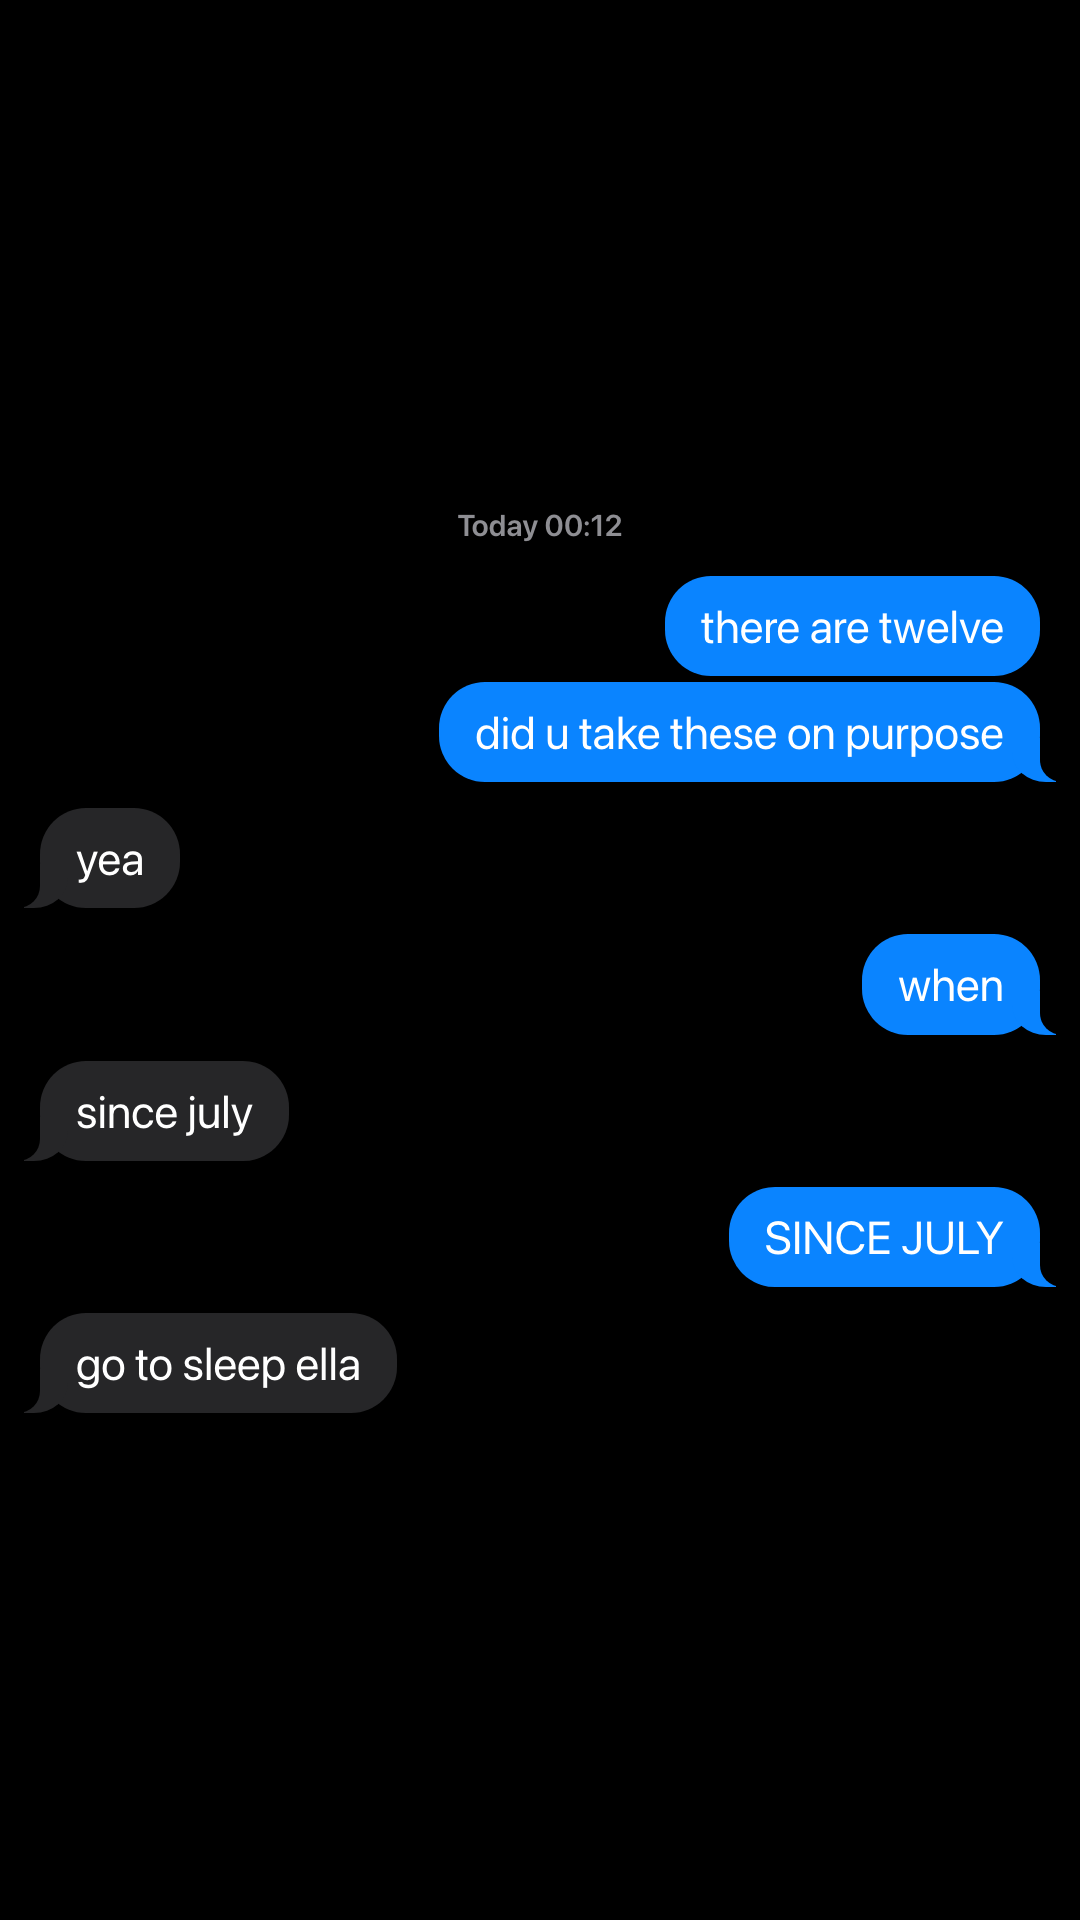
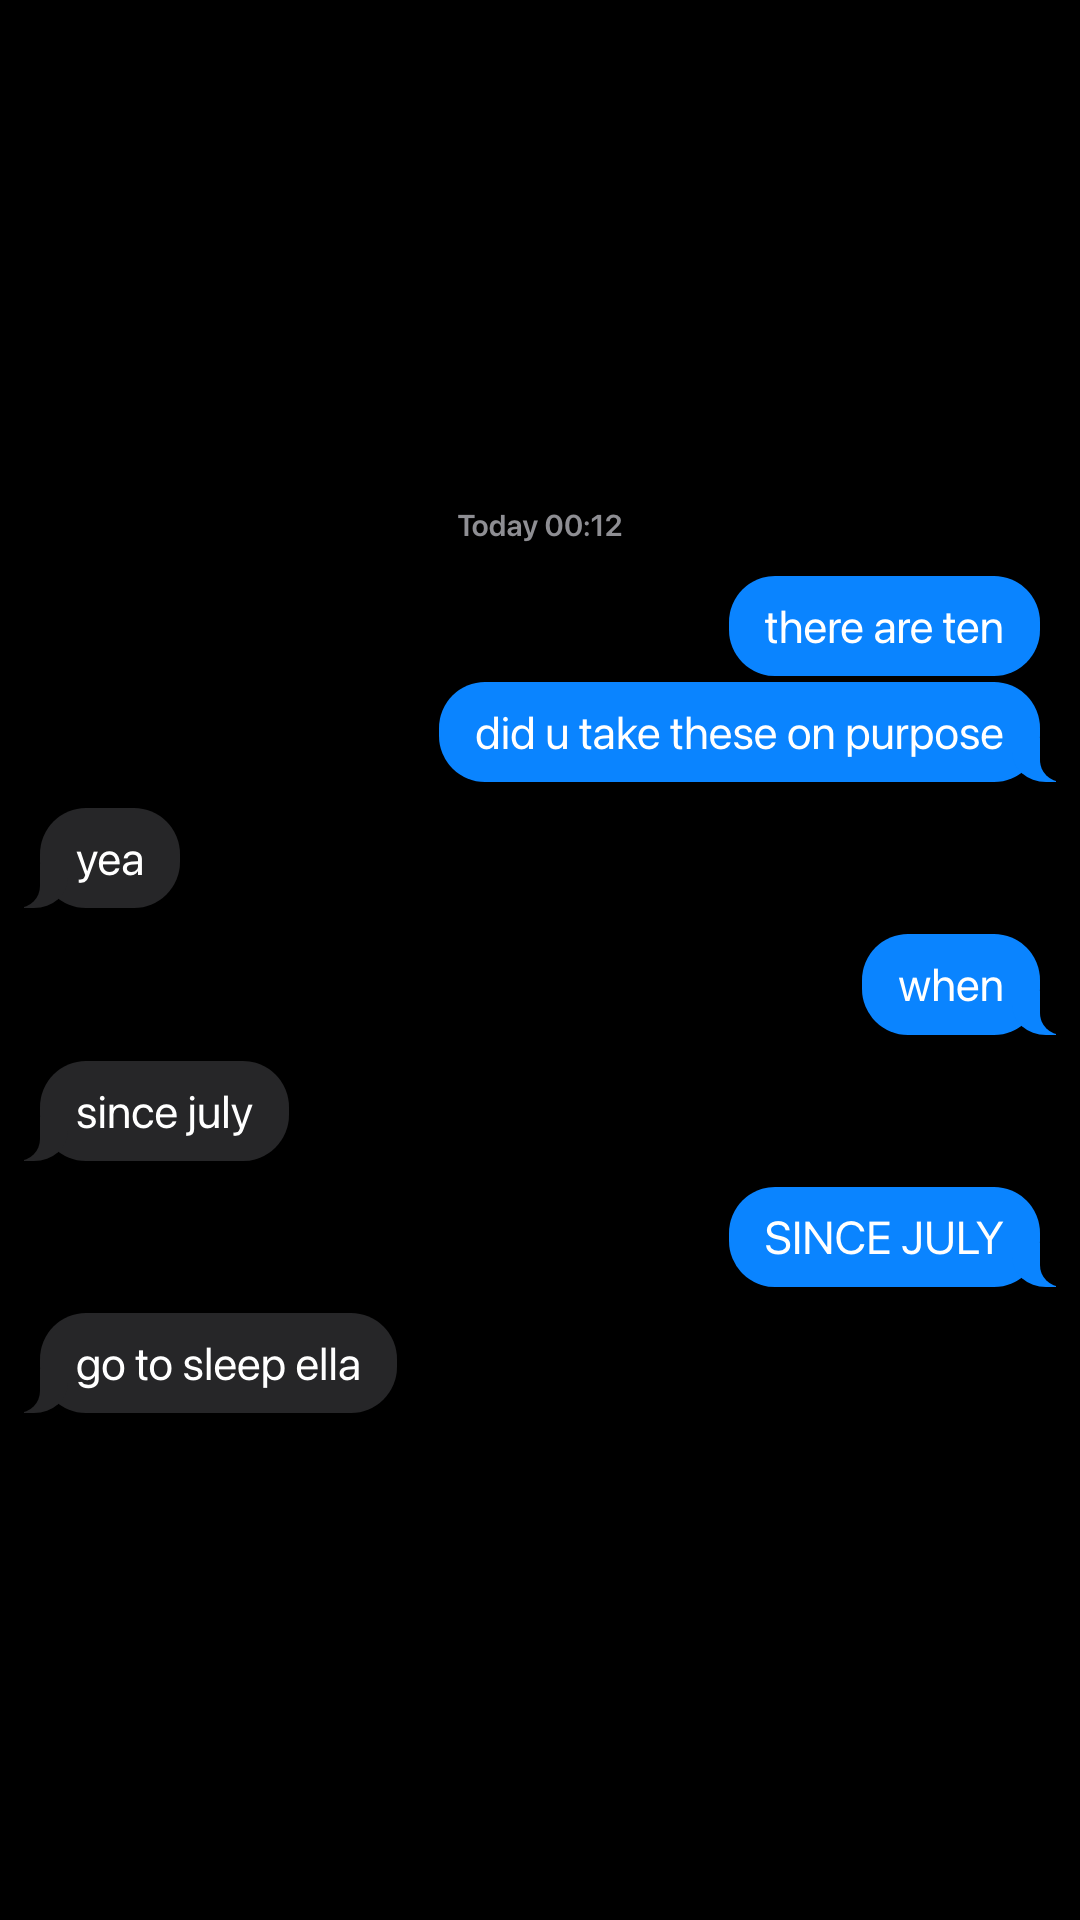
marketing: carousel 02 uses ten photos so the gift stays free
More than ten photos is the morePhotos premium extra, and the whole post
rests on the answer to "what is that" being "it's free".

Changed region(s): [[0.6111, 0.2812, 0.9167, 0.375]]

diff --git a/docs/marketing/tiktok-02/SCRIPT.md b/docs/marketing/tiktok-02/SCRIPT.md
@@ -30,13 +30,13 @@ Her: Ella. Him: never named, which is deliberate. People fill him in with someon
 | 2 | `slide-02.png` | "do u remember what u said in the car in july" · "u said nobody ever remembers the small stuff" · "i remembered the small stuff" | |
 | 3 | `slide-03.png` | "check ur other messages" · "why is there another one" · "just look" · "u will" | |
 | 4 | `slide-04.png` | the link · "what is this" · "headphones" · "im scared" · "ur gonna cry tho" | |
-| 5 | yours | the night sky, stars scattered, `For Ella` | `he made me a whole sky` |
+| 5 | yours | the night sky, ten stars scattered, `For Ella` | `he made me a whole sky` |
 | 6 | yours | one star opened, a photo inside it, the caption showing | |
 | 7 | yours | half the stars joined up, the shape starting to appear | |
 | 8 | yours | the constellation complete, a heart in the stars | `it was a heart the whole time` |
 | 9 | yours | the message under the stars, the window seat line in frame | (nothing) |
 | 10 | yours | the surprise revealed: `december. window seat. obviously.` | |
-| 11 | `slide-05.png` and `slide-06.png` | "since july" · "SINCE JULY" · then 01:26 "it made a heart" · "i know" | `i didnt sleep` |
+| 11 | `slide-05.png` and `slide-06.png` | "there are ten" · "since july" · "SINCE JULY" · then 01:26 "it made a heart" · "i know" | `i didnt sleep` |
 
 That is 12 if you post both closing slides, which you should. TikTok allows 35.
 
@@ -55,38 +55,42 @@ her. That single line is what gets stitched, screenshotted, and sent to boyfrien
 
 ## The gift, which you shoot yourself
 
-Constellations, at tryethos.io. It is free, which matters here. When the comments ask what
-it is, they can go make one that night, and free is the fastest way to get a hundred people
-inside the editor from one video.
+Constellations, at tryethos.io. Built the way it is written below it costs nothing, which
+matters here: when the comments ask what it is, they can go make one that night, and free is
+the fastest way to get a hundred people into the editor from one video.
 
 Build it, open it on your phone, Share → Add to Home Screen, and shoot it from the home
-screen so there are no Safari bars. Twelve stars, so give yourself a minute.
+screen so there are no Safari bars. Ten stars, so give yourself a minute.
 
 ### Editor fields (tryethos.io → Constellations)
 
 Their name `Ella` · Your name: leave your own · Title `For Ella` (this is the link preview
 on slide 4) · Sky `Midnight` · Shape `Heart` · Line when the constellation completes:
-`twelve nights. it was always this shape.` · Typed out · Music: library "Under the Stars" ·
+`ten nights. it was always this shape.` · Typed out · Music: library "Under the Stars" ·
 Reaction on · Countdown off · Final surprise on, reveal by holding: `december. window seat.
 obviously.` · Password empty · Schedule off.
 
-### The twelve photos and their captions
+### The ten photos and their captions
 
 Order matters, they become the stars in sequence. Use real phone photos, badly lit, slightly
 blurry. Polished ones kill it.
 
 1. `july. the car. you said nobody remembers.`
-2. `you fell asleep in the first twenty minutes`
-3. `and then said you'd seen it`
-4. `the window seat. as always.`
-5. `you at the sink at 1am doing the ten steps`
-6. `you laughing at something off camera`
-7. `you asleep on the train`
-8. `the shoes you swore you didn't buy`
-9. `your hand on the gearstick, august`
-10. `you in my hoodie pretending it's yours now`
-11. `the balcony. the one good night in october.`
-12. `you, not looking, which is when you look like this`
+2. `you fell asleep in the first twenty minutes and then said you'd seen it`
+3. `the window seat. as always.`
+4. `you at the sink at 1am doing the ten steps`
+5. `you laughing at something off camera`
+6. `you asleep on the train`
+7. `the shoes you swore you didn't buy`
+8. `you in my hoodie pretending it's yours now`
+9. `the balcony. the one good night in october.`
+10. `you, not looking, which is when you look like this`
+
+Ten and not twelve on purpose. The template holds twelve, but a gift with more than ten
+photos counts as a premium extra, and this whole post depends on the answer to "what is
+that" being "it's free, go make one". Ten photos, the library track, the hidden surprise and
+the countdown are all free. A real song from Spotify, a video, a voice note, an eleventh
+photo, a password or a schedule are what cost money.
 
 ### The message (paste as written)
 
@@ -98,7 +102,7 @@ blurry. Polished ones kill it.
 > the afterthought, and I have spent every day since making sure you never have to think
 > that again.
 >
-> Twelve stars. One for every night I wanted to say this and didn't.
+> Ten stars. One for every night I wanted to say this and didn't.
 >
 > I'm not good at saying it out loud. So I built it instead.
 
@@ -143,7 +147,7 @@ when the person reading it is also awake and shouldn't be.
 
 ## If you want a second one from this
 
-The same six texts work with Our Timeline instead. Change "there are twelve" to "it goes all
+The same six texts work with Our Timeline instead. Change "there are ten" to "it goes all
 the way back to the first message" and shoot the road drawing itself instead of the stars.
 Same chat, same "since july", different gift. That gives you a second post from one script,
 two weeks apart, without either looking recycled.
